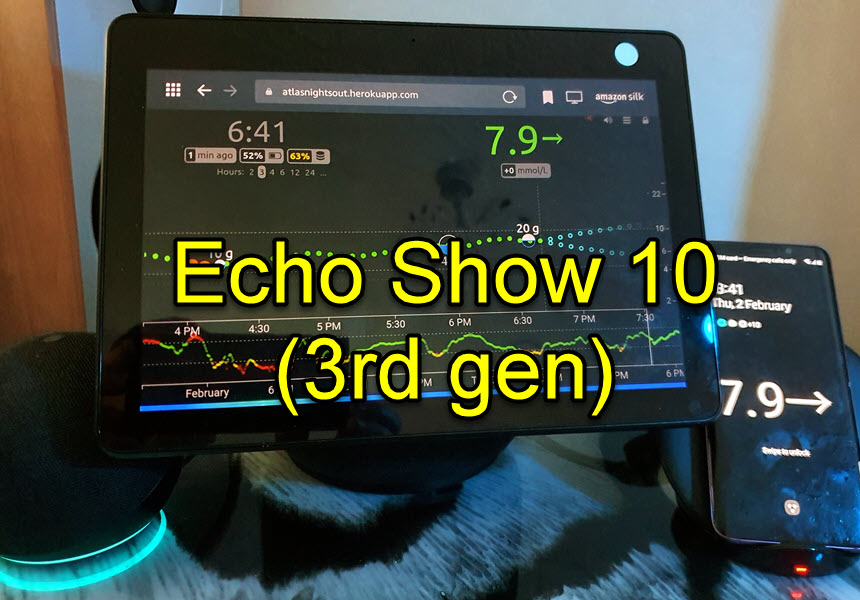
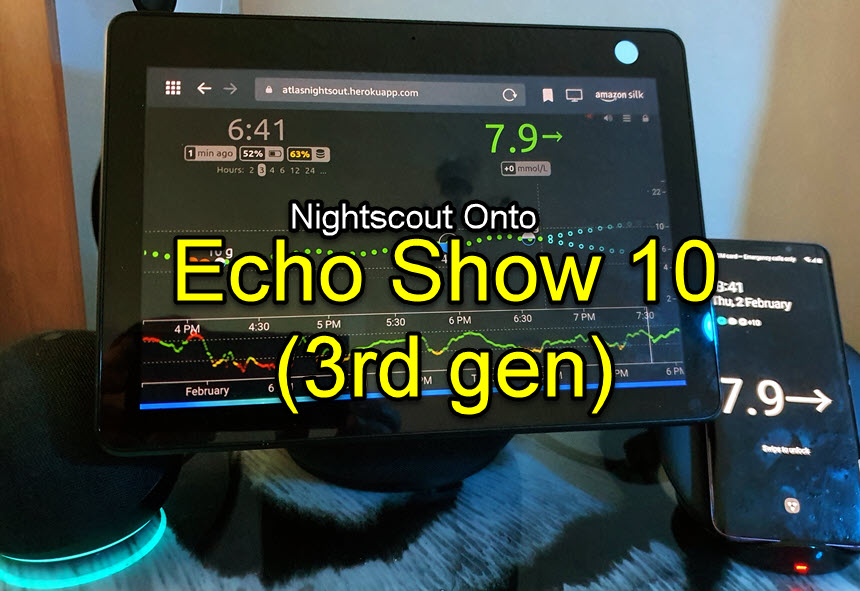
added Show Nightscout on Echo Show 10 3rd Gen main image

diff --git a/site/user-guide/Nightscout/Alexa Show Nightscout on Echo Show 10 3rd Gen/index.html b/site/user-guide/Nightscout/Alexa Show Nightscout on Echo Show 10 3rd Gen/index.html
@@ -1123,8 +1123,8 @@
 
   <h1>Add Nightscout on to Echo Show</h1>
 
-<p><img width="600" height="auto" border="0" align="center"  src="/my-project/img/Nightscout/Echo10/Echo Show 10 (3rd gen).jpg" title="Echo Show 10 (3rd gen)"/></a><br>
-You will have already have had to setup a Nightscout site before you can do this setup, see <a href="../../Setting_up_Github_Account_part1/">Nightscout Setup</a> if you have not already set it up.<br></p>
+<p><img width="600" height="auto" border="0" align="center"  src="/my-project/img/Nightscout/Echo10/Echo Show 10 (3rd gen).jpg" title="Echo Show 10 (3rd gen)"/></a><br></p>
+<p>You will have already have had to setup a Nightscout site before you can do this setup, see <a href="../../Setting_up_Github_Account_part1/">Nightscout Setup</a> if you have not already set it up.<br></p>
 <p>The latest software releases from Amazon for the Alexa Show 10 allows you to view with Silk Browser only on its display. This guide will help step you through the setup for voice commands to show your Nightscout site with just a few words on the Echo Shows display. We are be thinking the Shows Wake Word is “Alexa”! <br></p>
 <h2 id="1-swipe-down-from-top-of-show-display-and-tap-settings">1.   Swipe down from top of Show display and tap Settings:<br><a class="headerlink" href="#1-swipe-down-from-top-of-show-display-and-tap-settings" title="Permanent link">⌁</a></h2>
 <p><img width="600" height="auto" border="0" align="center"  src="/my-project/img/Nightscout/Echo10/Settings_20230201_180912.jpg" title="Settings"/></a></p>
